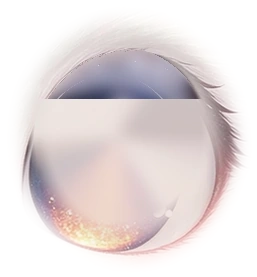
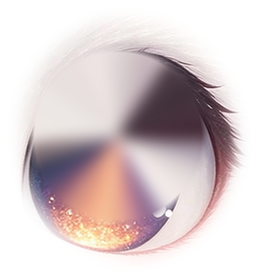
fix(pet): 眼瞳到上下极限的缝隙 —— 根因是 head.webp 里烤了整只死眼
head.webp 底图里画着一整只眼睛（含瞳仁、高光），眼球顶部是齐平硬边。
运行时又在上面画了活动眼珠，眼珠一移动，底下那只死眼的直边就露出来。
处理：按眼周毛色重填 head 里暗部，亮的外圈保留；虹膜/眼白/睫毛还原成交付原图。

diff --git a/timeline.html b/timeline.html
@@ -203,7 +203,7 @@ pre, pre > code, .article :not(pre) > code, .desk-preview :not(pre) > code {
   <span><a class="mlink" href="posts/blog-changelog.html">博客版本日志</a> · <a class="mlink" href="posts/markdown-extensions.html">本站支持的 Markdown 拓展语法</a> · <a class="mlink" href="posts/free-blog.html">（测试）零成本搭一个自己的博客</a> · <a class="mlink" href="posts/p-mwhf1abawj06.html">第2次周报</a> · <a class="mlink" href="posts/p-mwhi1swpqqae.html">博客食用说明！ฅ^•~•^ฅ</a> · <a class="mlink" href="posts/p-mwg23n3vy3gg.html">中期考核的题解与拓展思考</a> · <a class="mlink" href="posts/p-mwbj0maxovr0.html">第1次周报</a></span>
 </header>
 <main class="route-mirror">
-<div class="page-head reveal"><div class="page-kicker">ARCHIVE</div><h1 class="page-title">归档</h1><p class="page-sub">总计 7 篇文章，按时间排好</p></div><div class="stat-bar glass reveal"><div class="stat-cell"><b data-count-to="7">7</b><span>篇文章</span></div><div class="stat-cell"><b data-count-to="1">1</b><span>则杂谈</span></div><div class="stat-cell"><b data-count-to="1">1</b><span>条说说</span></div><div class="stat-cell"><b data-count-to="32">32</b><span>张照片</span></div><div class="stat-cell"><b data-count-to="14">14</b><span>天在线</span></div></div><div class="filter-row reveal"><button class="filter on" type="button" data-tfilter="">全部</button><button class="filter" type="button" data-tfilter="⭐">⭐ <i>2</i></button><button class="filter" type="button" data-tfilter="Markdown">Markdown <i>1</i></button><button class="filter" type="button" data-tfilter="拓展">拓展 <i>2</i></button><button class="filter" type="button" data-tfilter="版本日志">版本日志 <i>1</i></button><button class="filter" type="button" data-tfilter="站点">站点 <i>3</i></button><button class="filter" type="button" data-tfilter="笔记">笔记 <i>1</i></button><button class="filter" type="button" data-tfilter="随笔">随笔 <i>1</i></button><button class="filter" type="button" data-tfilter="科协">科协 <i>3</i></button><button class="filter" type="button" data-tfilter="题解">题解 <i>1</i></button><button class="filter" type="button" data-tfilter="引导">引导 <i>1</i></button><button class="filter" type="button" data-tfilter="A">A <i>4</i></button><button class="filter" type="button" data-tfilter="B">B <i>3</i></button></div><div class="timeline"><section class="tl-group reveal"><div class="tl-month"><b>2026-11</b><span>7 篇</span></div><div class="tl-items"><a class="tl-item glass" href="#/post/blog-changelog"><time>2026-11-19</time><b>博客版本日志</b><span>#版本日志 #站点 #A</span></a><a class="tl-item glass" href="#/post/markdown-extensions"><time>2026-11-19</time><b>本站支持的 Markdown 拓展语法</b><span>#⭐ #Markdown #拓展 #A</span></a><a class="tl-item glass" href="#/post/free-blog"><time>2026-11-16</time><b>（测试）零成本搭一个自己的博客</b><span>#站点 #笔记 #A</span></a><a class="tl-item glass" href="#/post/p-mwhf1abawj06"><time>2026-11-15</time><b>第2次周报</b><span>#科协 #B</span></a><a class="tl-item glass" href="#/post/p-mwhi1swpqqae"><time>2026-11-15</time><b>博客食用说明！ฅ^•~•^ฅ</b><span>#⭐ #站点 #引导 #A</span></a><a class="tl-item glass" href="#/post/p-mwg23n3vy3gg"><time>2026-11-14</time><b>中期考核的题解与拓展思考</b><span>#拓展 #科协 #题解 #B</span></a><a class="tl-item glass" href="#/post/p-mwbj0maxovr0"><time>2026-11-11</time><b>第1次周报</b><span>#随笔 #科协 #B</span></a></div></section></div>
+<div class="page-head reveal"><div class="page-kicker">ARCHIVE</div><h1 class="page-title">归档</h1><p class="page-sub">总计 7 篇文章，按时间排好</p></div><div class="stat-bar glass reveal"><div class="stat-cell"><b data-count-to="7">7</b><span>篇文章</span></div><div class="stat-cell"><b data-count-to="1">1</b><span>则杂谈</span></div><div class="stat-cell"><b data-count-to="1">1</b><span>条说说</span></div><div class="stat-cell"><b data-count-to="32">32</b><span>张照片</span></div><div class="stat-cell"><b data-count-to="15">15</b><span>天在线</span></div></div><div class="filter-row reveal"><button class="filter on" type="button" data-tfilter="">全部</button><button class="filter" type="button" data-tfilter="⭐">⭐ <i>2</i></button><button class="filter" type="button" data-tfilter="Markdown">Markdown <i>1</i></button><button class="filter" type="button" data-tfilter="拓展">拓展 <i>2</i></button><button class="filter" type="button" data-tfilter="版本日志">版本日志 <i>1</i></button><button class="filter" type="button" data-tfilter="站点">站点 <i>3</i></button><button class="filter" type="button" data-tfilter="笔记">笔记 <i>1</i></button><button class="filter" type="button" data-tfilter="随笔">随笔 <i>1</i></button><button class="filter" type="button" data-tfilter="科协">科协 <i>3</i></button><button class="filter" type="button" data-tfilter="题解">题解 <i>1</i></button><button class="filter" type="button" data-tfilter="引导">引导 <i>1</i></button><button class="filter" type="button" data-tfilter="A">A <i>4</i></button><button class="filter" type="button" data-tfilter="B">B <i>3</i></button></div><div class="timeline"><section class="tl-group reveal"><div class="tl-month"><b>2026-11</b><span>7 篇</span></div><div class="tl-items"><a class="tl-item glass" href="#/post/blog-changelog"><time>2026-11-19</time><b>博客版本日志</b><span>#版本日志 #站点 #A</span></a><a class="tl-item glass" href="#/post/markdown-extensions"><time>2026-11-19</time><b>本站支持的 Markdown 拓展语法</b><span>#⭐ #Markdown #拓展 #A</span></a><a class="tl-item glass" href="#/post/free-blog"><time>2026-11-16</time><b>（测试）零成本搭一个自己的博客</b><span>#站点 #笔记 #A</span></a><a class="tl-item glass" href="#/post/p-mwhf1abawj06"><time>2026-11-15</time><b>第2次周报</b><span>#科协 #B</span></a><a class="tl-item glass" href="#/post/p-mwhi1swpqqae"><time>2026-11-15</time><b>博客食用说明！ฅ^•~•^ฅ</b><span>#⭐ #站点 #引导 #A</span></a><a class="tl-item glass" href="#/post/p-mwg23n3vy3gg"><time>2026-11-14</time><b>中期考核的题解与拓展思考</b><span>#拓展 #科协 #题解 #B</span></a><a class="tl-item glass" href="#/post/p-mwbj0maxovr0"><time>2026-11-11</time><b>第1次周报</b><span>#随笔 #科协 #B</span></a></div></section></div>
 </main>
 <footer class="mirror-foot">这是「星梦Staream」归档页的静态镜像，完整交互（搜索、特效、夜间模式）请
 <a href="/#/timeline">在站点中打开 →</a>

diff --git a/about.html b/about.html
@@ -203,7 +203,7 @@ pre, pre > code, .article :not(pre) > code, .desk-preview :not(pre) > code {
   <span><a class="mlink" href="posts/blog-changelog.html">博客版本日志</a> · <a class="mlink" href="posts/markdown-extensions.html">本站支持的 Markdown 拓展语法</a> · <a class="mlink" href="posts/free-blog.html">（测试）零成本搭一个自己的博客</a> · <a class="mlink" href="posts/p-mwhf1abawj06.html">第2次周报</a> · <a class="mlink" href="posts/p-mwhi1swpqqae.html">博客食用说明！ฅ^•~•^ฅ</a> · <a class="mlink" href="posts/p-mwg23n3vy3gg.html">中期考核的题解与拓展思考</a> · <a class="mlink" href="posts/p-mwbj0maxovr0.html">第1次周报</a></span>
 </header>
 <main class="route-mirror">
-<div class="page-head reveal"><div class="page-kicker">ABOUT</div><h1 class="page-title">关于</h1><p class="page-sub">关于这个站，和写它的人</p></div><div class="about-card glass reveal"><div class="about-top"><img class="avatar avatar-lg" src="assets/avatar.jpg" alt="我的头像" decoding="async"><div><h2>我</h2><p>在阳光盛放的花田里，做一缕飘忽的梦；在星光低垂的旷野上，做一尾不倦的鱼。</p></div></div><div class="about-intro"><p>全栈 AI 开发者 | 探索智能体的情感边界<br>学习 C/C++ 与 Python 底层开发，习惯以 LaTeX 和 Markdown 记录技术思考。目前专注于 AI Agent 全栈架构的设计与实现。<br>我的研究致力于打破模型的性能壁垒，通过高级化挖掘开源模型潜力与精细化 Skill 开发，释放 AI 的最大效能。同时，我专注于情感计算与长期记忆的融合，试图通过引入“心情权重”算法，赋予 AI 拟人化的情感特征，让机器记忆不仅有深度，更有温度。</p></div><div class="x-chips about-skills"><span>AI</span><span>C/C++</span><span>Python</span><span>开发</span></div><div class="about-social"><a href="https://github.com/ZXY-cc" target="_blank" rel="noopener noreferrer">GitHub<i>代码存放处</i></a><a href="#/timeline">归档<i>全部记录</i></a><a href="#/photowall">照片墙<i>抬头看到的颜色</i></a><a href="#/moments">说说<i>随手记的几句话</i></a><a href="#/friends">友链<i>常去的地方</i></a><a href="#/about">关于<i>关于这个站</i></a></div></div><div class="site-facts glass reveal"><div><b>2026-11-07</b><span>建站日期</span></div><div><b>14 天</b><span>已在线</span></div><div><b>7 / 32</b><span>文章 / 照片</span></div><div><b>0</b><span>追踪脚本</span></div></div><section class="changelog-preview glass reveal" aria-label="博客版本日志预览"><div class="cl-head"><div><p class="page-kicker">CHANGELOG</p><h2>博客版本日志</h2><p class="cl-sub">每次更新都会同步到这里。下方是同名 HTML 页面的实时预览，共 92 个版本，最后更新 2026-11-19（v3.68.0）。</p></div><div class="cl-actions"><a class="soft-btn" href="%E5%8D%9A%E5%AE%A2%E7%89%88%E6%9C%AC%E6%97%A5%E5%BF%97.html" target="_blank" rel="noopener noreferrer">打开完整版 ↗</a><a class="soft-btn" href="%E5%8D%9A%E5%AE%A2%E7%89%88%E6%9C%AC%E6%97%A5%E5%BF%97.md" target="_blank" rel="noopener noreferrer">Markdown 原文 ↗</a><a class="soft-btn" href="#/post/blog-changelog">阅读文章 →</a></div></div><iframe class="cl-frame" id="cl-frame" title="博客版本日志 HTML 预览" loading="lazy"></iframe></section>
+<div class="page-head reveal"><div class="page-kicker">ABOUT</div><h1 class="page-title">关于</h1><p class="page-sub">关于这个站，和写它的人</p></div><div class="about-card glass reveal"><div class="about-top"><img class="avatar avatar-lg" src="assets/avatar.jpg" alt="我的头像" decoding="async"><div><h2>我</h2><p>在阳光盛放的花田里，做一缕飘忽的梦；在星光低垂的旷野上，做一尾不倦的鱼。</p></div></div><div class="about-intro"><p>全栈 AI 开发者 | 探索智能体的情感边界<br>学习 C/C++ 与 Python 底层开发，习惯以 LaTeX 和 Markdown 记录技术思考。目前专注于 AI Agent 全栈架构的设计与实现。<br>我的研究致力于打破模型的性能壁垒，通过高级化挖掘开源模型潜力与精细化 Skill 开发，释放 AI 的最大效能。同时，我专注于情感计算与长期记忆的融合，试图通过引入“心情权重”算法，赋予 AI 拟人化的情感特征，让机器记忆不仅有深度，更有温度。</p></div><div class="x-chips about-skills"><span>AI</span><span>C/C++</span><span>Python</span><span>开发</span></div><div class="about-social"><a href="https://github.com/ZXY-cc" target="_blank" rel="noopener noreferrer">GitHub<i>代码存放处</i></a><a href="#/timeline">归档<i>全部记录</i></a><a href="#/photowall">照片墙<i>抬头看到的颜色</i></a><a href="#/moments">说说<i>随手记的几句话</i></a><a href="#/friends">友链<i>常去的地方</i></a><a href="#/about">关于<i>关于这个站</i></a></div></div><div class="site-facts glass reveal"><div><b>2026-11-07</b><span>建站日期</span></div><div><b>15 天</b><span>已在线</span></div><div><b>7 / 32</b><span>文章 / 照片</span></div><div><b>0</b><span>追踪脚本</span></div></div><section class="changelog-preview glass reveal" aria-label="博客版本日志预览"><div class="cl-head"><div><p class="page-kicker">CHANGELOG</p><h2>博客版本日志</h2><p class="cl-sub">每次更新都会同步到这里。下方是同名 HTML 页面的实时预览，共 92 个版本，最后更新 2026-11-19（v3.68.0）。</p></div><div class="cl-actions"><a class="soft-btn" href="%E5%8D%9A%E5%AE%A2%E7%89%88%E6%9C%AC%E6%97%A5%E5%BF%97.html" target="_blank" rel="noopener noreferrer">打开完整版 ↗</a><a class="soft-btn" href="%E5%8D%9A%E5%AE%A2%E7%89%88%E6%9C%AC%E6%97%A5%E5%BF%97.md" target="_blank" rel="noopener noreferrer">Markdown 原文 ↗</a><a class="soft-btn" href="#/post/blog-changelog">阅读文章 →</a></div></div><iframe class="cl-frame" id="cl-frame" title="博客版本日志 HTML 预览" loading="lazy"></iframe></section>
 </main>
 <footer class="mirror-foot">这是「星梦Staream」关于页的静态镜像，完整交互（搜索、特效、夜间模式）请
 <a href="/#/about">在站点中打开 →</a>
